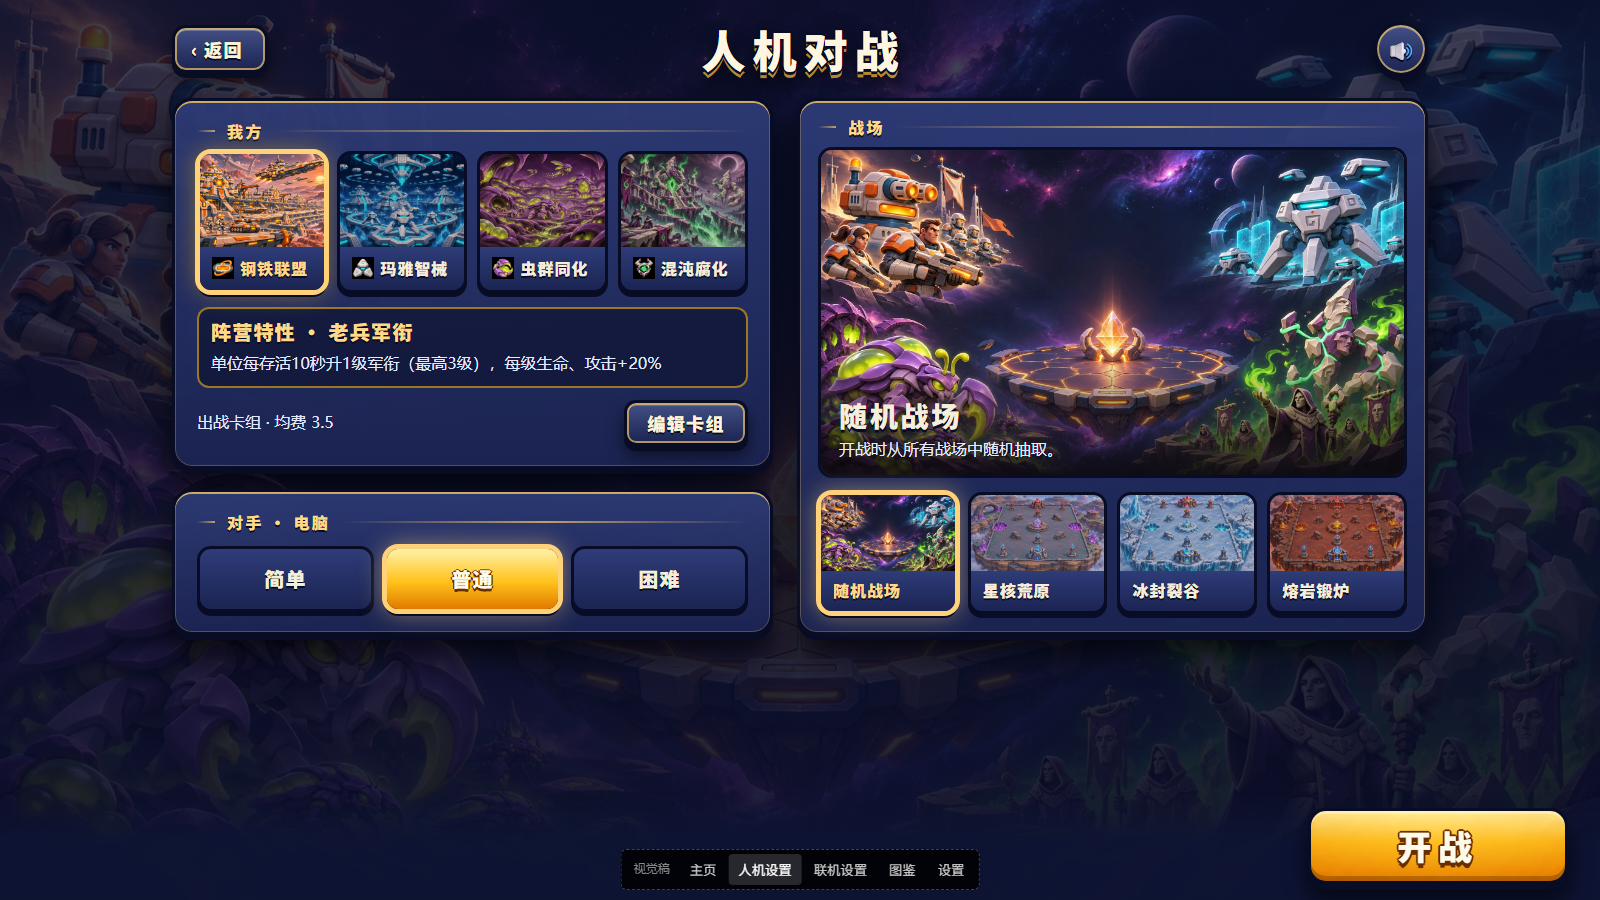
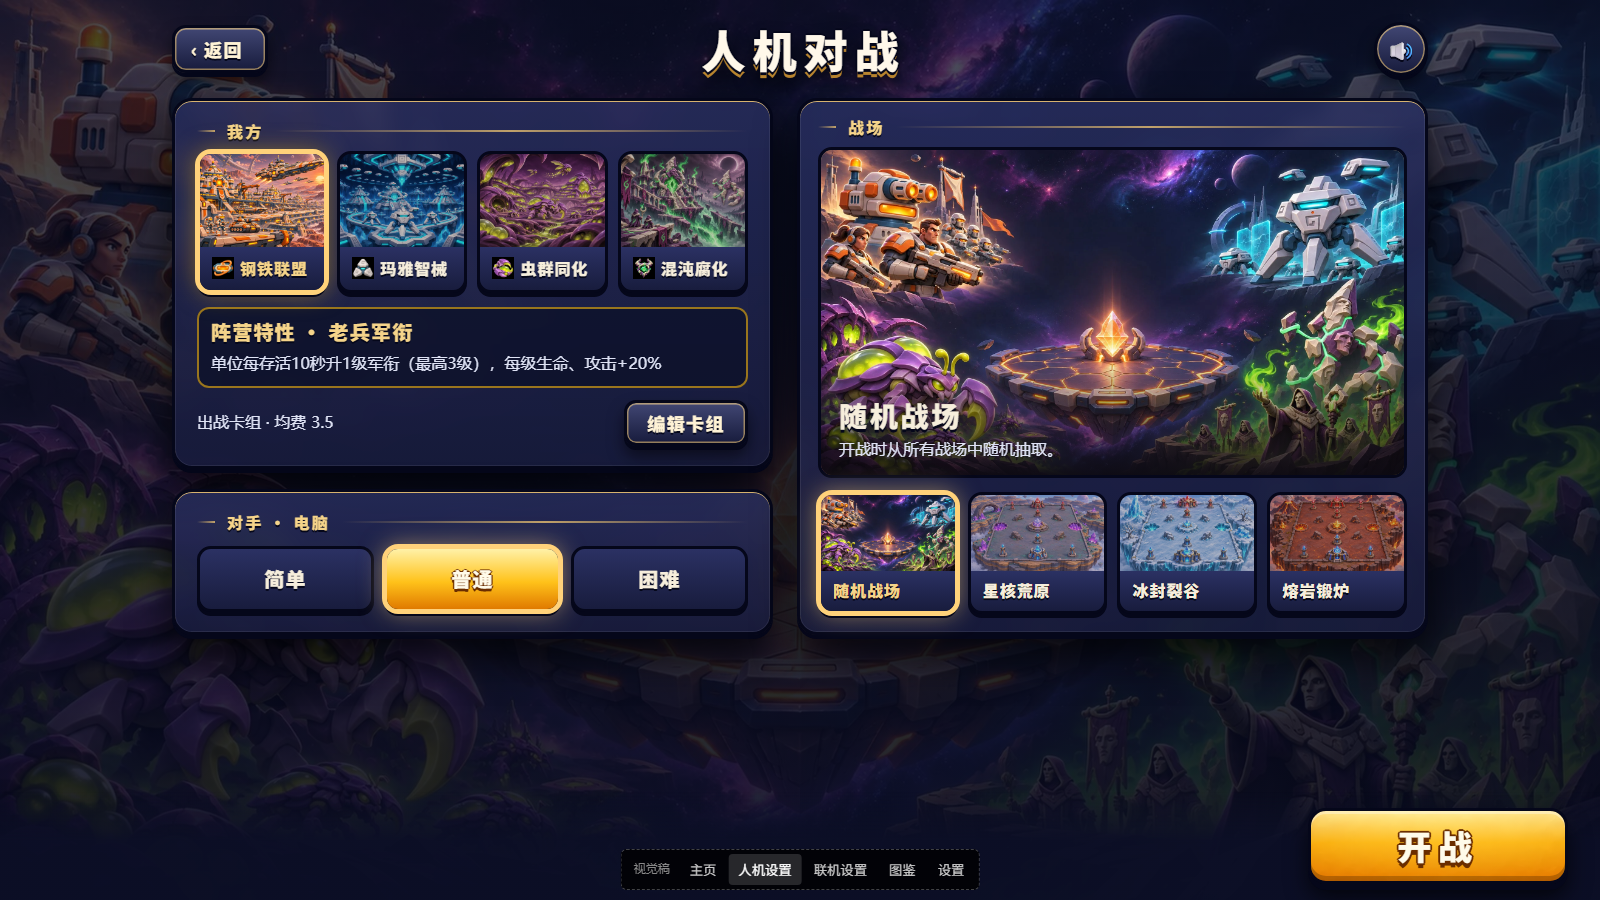
视觉稿 v0.8:A2 墨蓝·金·青(默认)——只留金(主操作/选中)+青(次操作)两个强调色,XR 改中性按钮,面板半透明磨砂;?theme=a 可对比原 A

diff --git a/mockup/index.html b/mockup/index.html
@@ -351,6 +351,31 @@ body.theme-c {   /* C 锻铜:炭灰金属 + 青铜描边,更接近传统 RTS 的
 .card { background: radial-gradient(circle at 50% 36%, var(--s1), var(--s3) 58%) !important; }
 .detail .art-wrap { border-radius: 12px; background: radial-gradient(circle at 50% 45%, var(--s1), var(--s3) 70%); }
 .dslot { background: radial-gradient(circle at 50% 45%, var(--s1), var(--s3) 70%); }
+
+/* ═════ A2 墨蓝 · 金 · 青(纯审美调整,现为默认;?theme=a 看原 A)═════
+   只留两个强调色:金 = 主操作 / 选中,青 = 次操作(联机、加入、3D 模型);其余全部中性墨蓝
+   面板半透明磨砂,透出背后的主视觉,不再是一整块平涂的蓝 */
+body.theme-d {
+  --s1: #2b3163; --s2: #181c3d; --s3: #0c0f26; --plum-line: #05071a; --rim: #e8c070;
+  --label: #f5d48a; --ink-soft: #dfe3f5; --ink-title: #fff8ea; --ink-dim: #9aa2c8; --tex: none;
+  --tint-a: #070a1eb8; --tint-b: #070a1ee6; --home-tint: #060819;
+  --teal-top: #6ff2e0; --teal-mid: #1fb5bf; --teal-bot: #0b6d84; --teal-ink: #04323d;
+}
+body.theme-d .frame {
+  background: linear-gradient(180deg, color-mix(in srgb, var(--s1) 78%, transparent), color-mix(in srgb, var(--s2) 86%, transparent));
+  backdrop-filter: blur(10px) saturate(1.15); -webkit-backdrop-filter: blur(10px) saturate(1.15);
+  box-shadow: inset 0 1px 0 color-mix(in srgb, var(--rim) 90%, transparent), inset 0 0 0 1px #ffffff14, 0 4px 0 var(--plum-line), 0 22px 40px #000b;
+}
+body.theme-d .g-blue {
+  background: linear-gradient(180deg, var(--teal-top), var(--teal-mid) 52%, var(--teal-bot));
+  text-shadow: 2px 0 0 var(--teal-ink), -2px 0 0 var(--teal-ink), 0 2px 0 var(--teal-ink), 0 -2px 0 var(--teal-ink), 0 4px 0 var(--teal-ink);
+}
+body.theme-d .g-blue.g-sm { text-shadow: 1.5px 0 0 var(--teal-ink), -1.5px 0 0 var(--teal-ink), 0 1.5px 0 var(--teal-ink), 0 -1.5px 0 var(--teal-ink), 0 3px 0 var(--teal-ink); }
+body.theme-d .g-xr { color: inherit; background: linear-gradient(180deg, color-mix(in srgb, var(--s1) 100%, white 12%), var(--s2)); }
+body.theme-d .g-plum { box-shadow: inset 0 0 0 1.5px color-mix(in srgb, var(--rim) 60%, transparent), inset 0 2px 0 #ffffff26, 0 4px 0 var(--plum-line), 0 10px 16px #0008; }
+body.theme-d .choice, body.theme-d .card { border-color: #05071a; }
+body.theme-d .choice.sel, body.theme-d .card.in { border-color: #ffd27a; }
+body.theme-d .cost { background: radial-gradient(circle at 35% 30%, #8fe9ff, #2a7fd6); }
 </style>
 </head>
 <body>
@@ -580,7 +605,9 @@ document.querySelectorAll('#s-settings .seg').forEach(seg => seg.addEventListene
 }));
 renderSetup(); renderCodex();
 const q = new URLSearchParams(location.search);
-if (q.get('theme')) document.body.classList.add('theme-' + q.get('theme')); if (q.get('m')) { opp = q.get('m'); renderSetup(); } if (q.get('s')) go(q.get('s'));
+// 默认 A2(theme-d)
+document.body.classList.add('theme-' + (q.get('theme') || 'd'));
+if (q.get('m')) { opp = q.get('m'); renderSetup(); } if (q.get('s')) go(q.get('s'));
 </script>
 </body>
 </html>
